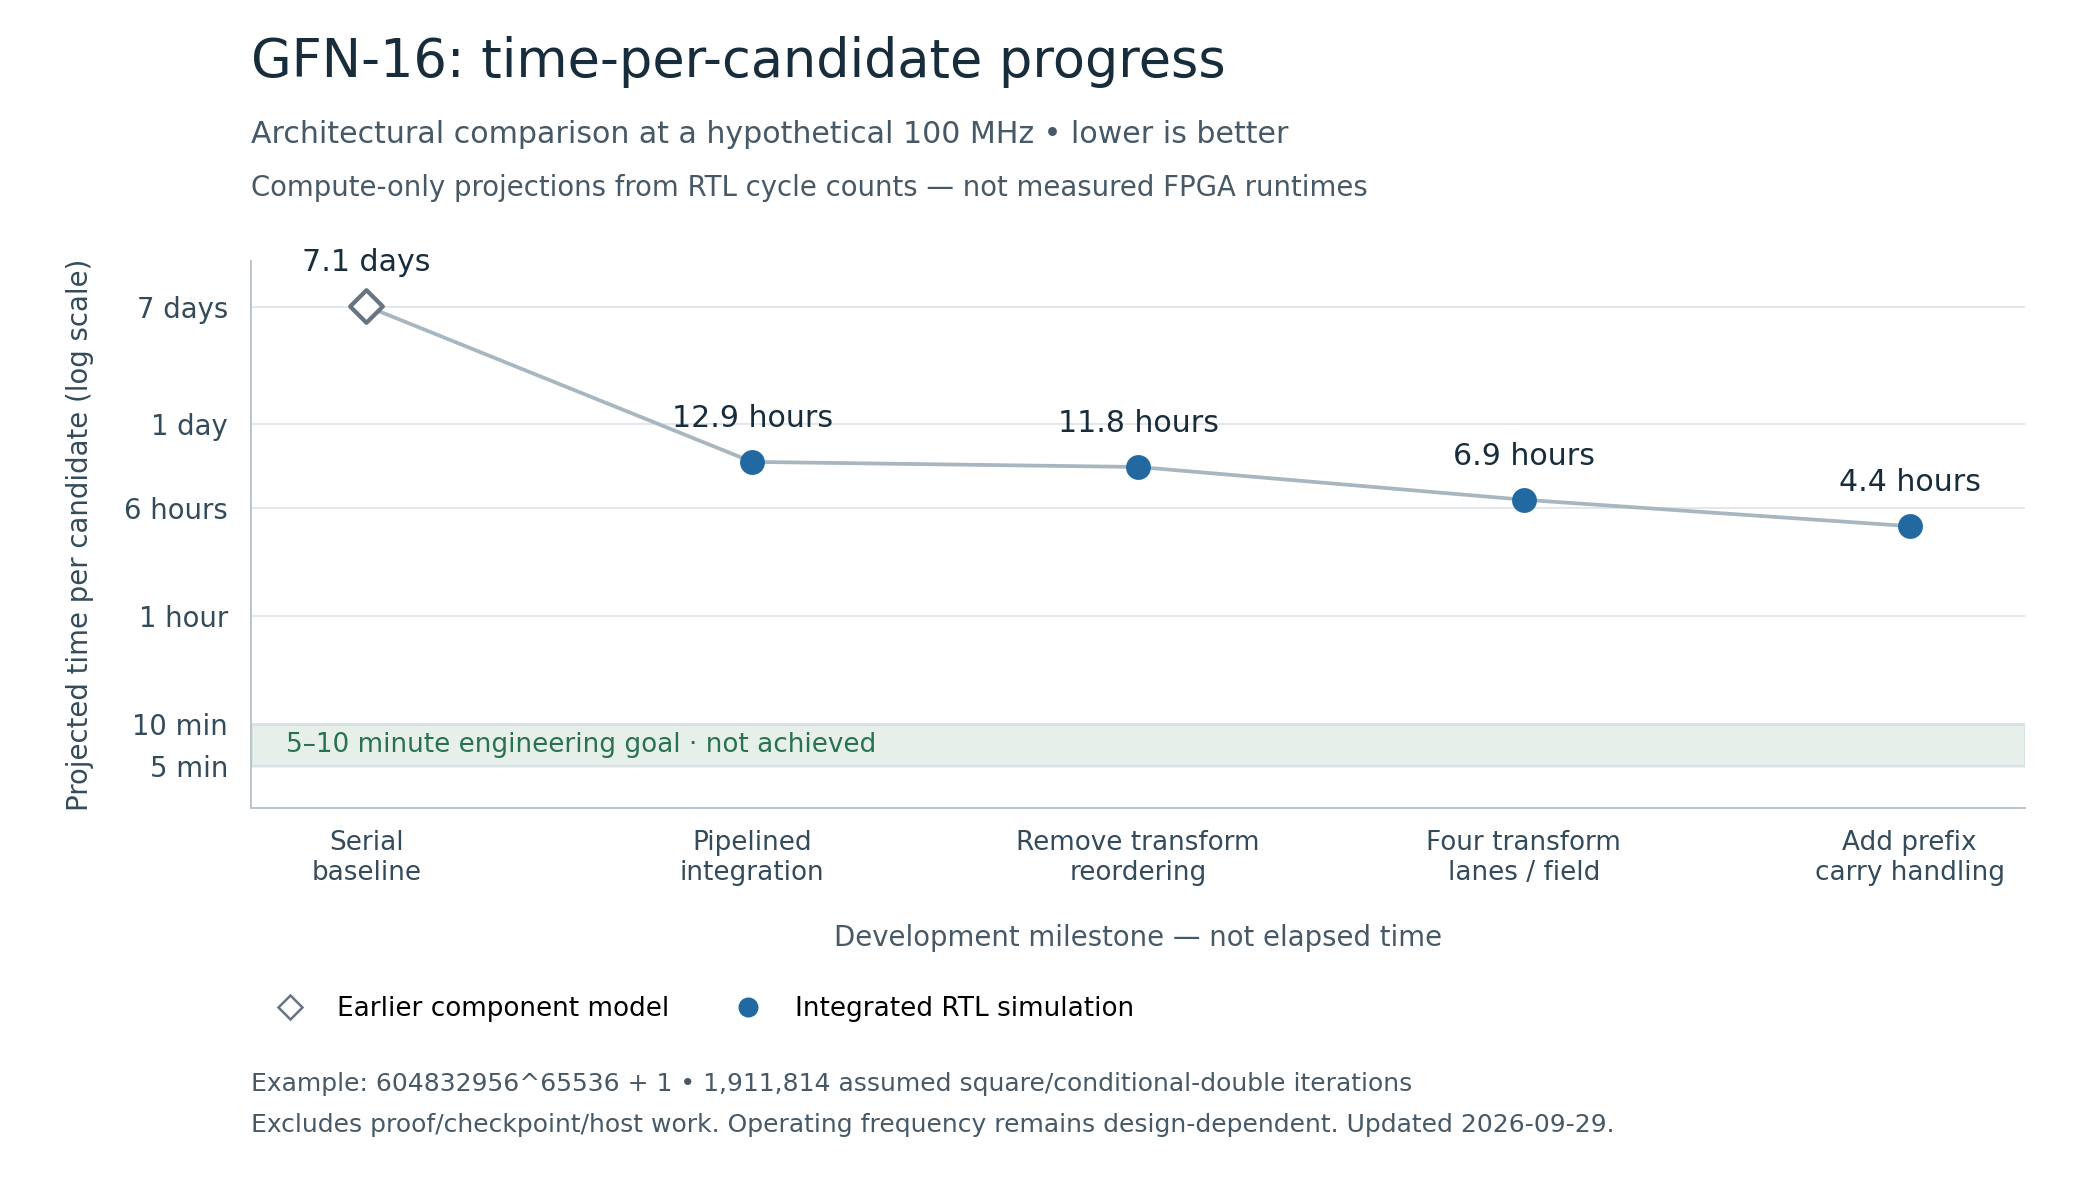
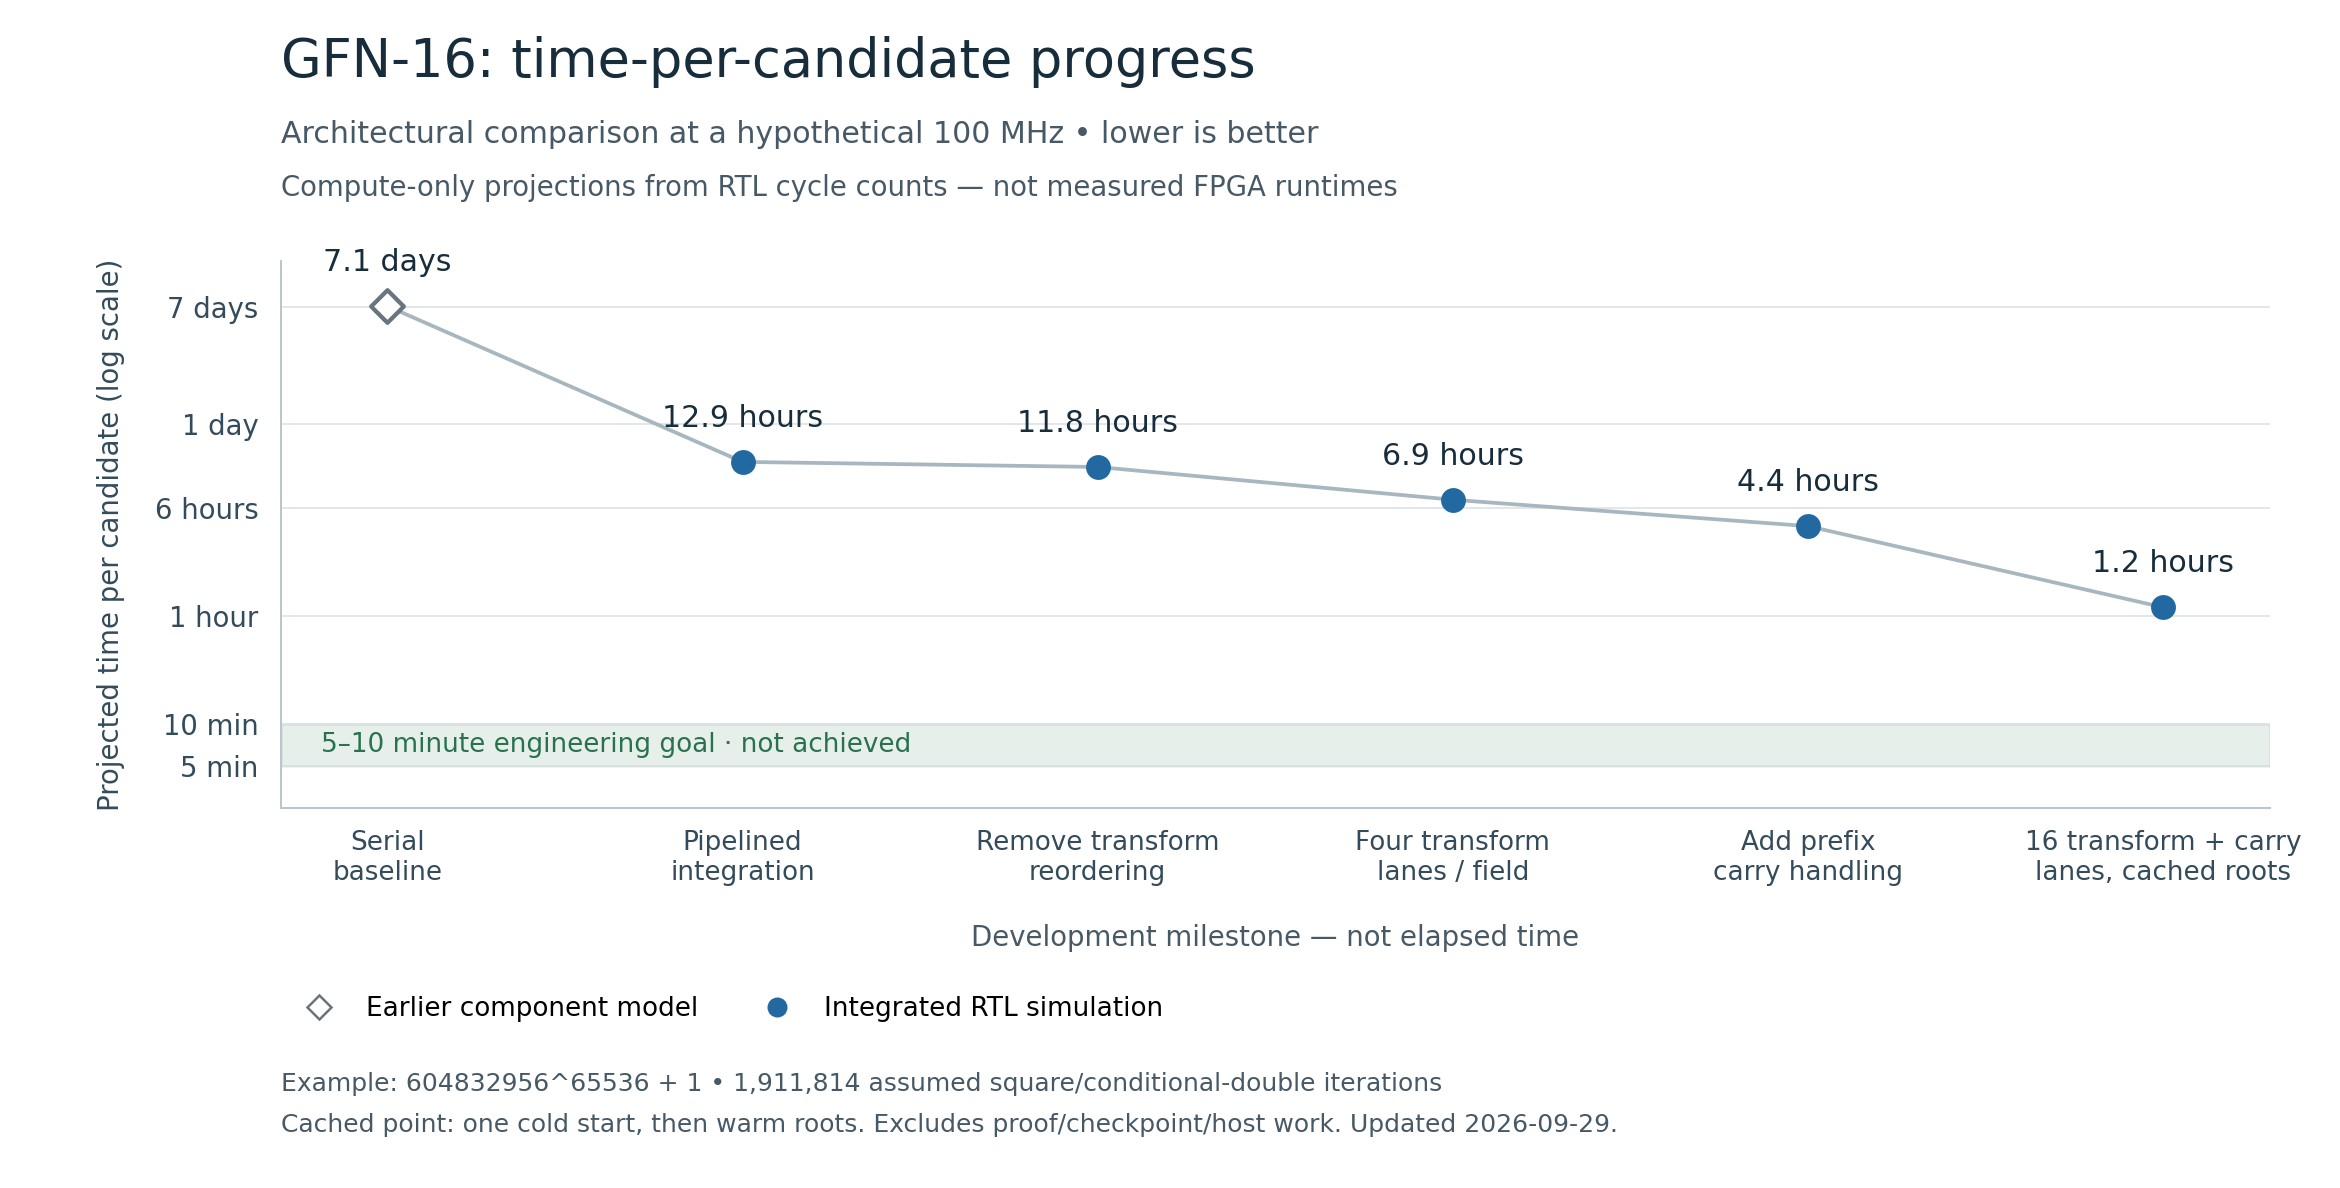
Track verified cached sixteen-lane milestone

diff --git a/plot_progress.py b/plot_progress.py
@@ -19,12 +19,18 @@ def load_progress(path: Path) -> dict:
             raise ValueError("duplicate milestone or invalid cycle count")
         if row["evidence_class"] not in {"component_model","integrated_rtl_simulation"}:
             raise ValueError("unknown evidence class")
+        if "cold_start_cycles" in row and (row["cold_start_cycles"] < row["cycles_per_square"]
+                or row.get("cold_samples", 0) < 1 or row.get("warm_samples", 0) < 1
+                or row["cold_samples"] + row["warm_samples"] != row.get("full_size_recurrent_squares")):
+            raise ValueError("cached milestone needs consistent cold/warm evidence")
         seen.add(row["id"])
     return data
 
 
 def seconds(data, row):
-    return row["cycles_per_square"]*data["candidate"]["exponent_bits"]/(data["reference_clock_mhz"]*1e6)
+    bits = data["candidate"]["exponent_bits"]
+    cycles = row.get("cold_start_cycles", row["cycles_per_square"]) + (bits - 1) * row["cycles_per_square"]
+    return cycles/(data["reference_clock_mhz"]*1e6)
 
 
 def duration(s):
@@ -44,7 +50,7 @@ def render(data, destination):
     rows=data["milestones"]; xs=list(range(len(rows)))
     ys=[seconds(data,row)/3600 for row in rows]
     blue="#2369a1"; gray="#687480"; green="#28734e"
-    fig,ax=plt.subplots(figsize=(11.6,6.6),facecolor="white")
+    fig,ax=plt.subplots(figsize=(13,6.6),facecolor="white")
     fig.subplots_adjust(left=.12,right=.97,bottom=.32,top=.78)
     fig.text(.12,.935,"GFN-16: time-per-candidate progress",fontsize=21,color="#182d3c",weight="medium")
     fig.text(.12,.88,f"Architectural comparison at a hypothetical {data['reference_clock_mhz']:g} MHz • lower is better",color="#475966",fontsize=12)
@@ -81,7 +87,7 @@ def render(data, destination):
             Line2D([],[],linestyle="none",marker="o",color=blue,markersize=7,label="Integrated RTL simulation")]
     fig.legend(handles=legend,loc="lower left",bbox_to_anchor=(.115,.12),ncol=2,frameon=False,fontsize=10.5)
     fig.text(.12,.082,"Example: 604832956^65536 + 1 • 1,911,814 assumed square/conditional-double iterations",fontsize=10,color="#475966")
-    fig.text(.12,.047,"Excludes proof/checkpoint/host work. Operating frequency remains design-dependent. Updated "+data["updated"]+".",fontsize=10,color="#475966")
+    fig.text(.12,.047,"Cached point: one cold start, then warm roots. Excludes proof/checkpoint/host work. Updated "+data["updated"]+".",fontsize=10,color="#475966")
     destination.mkdir(parents=True,exist_ok=True)
     for ext in ("svg","png"):
         metadata={"Date":None,"Creator":"GFN16 progress plotting script"} if ext=="svg" else {"Software":"GFN16 progress plotting script"}

diff --git a/tests/test_progress.py b/tests/test_progress.py
@@ -22,3 +22,9 @@ class ProgressTests(unittest.TestCase):
         self.assertGreater(seconds(data,data["milestones"][-1]),600)
         for forbidden in ("/Users/","/home/","ssh://","BEGIN PRIVATE KEY","github_pat_"):
             self.assertNotIn(forbidden,path.read_text())
+
+    def test_cached_point_includes_one_cold_start(self):
+        data=load_progress(Path(__file__).parents[1]/"progress.json")
+        row=next(r for r in data["milestones"] if r["id"]=="sixteen-cached-prefix")
+        self.assertAlmostEqual(seconds(data,row),(479674+1911813*217522)/1e8)
+        self.assertEqual(row["cold_samples"]+row["warm_samples"],5)

diff --git a/README.md b/README.md
@@ -15,6 +15,17 @@ Every point uses a **hypothetical common 100 MHz clock** to compare architecture
 projected seconds = cycles per square × 1,911,814 / 100,000,000
 ```
 
+For cached-root milestones, the estimate instead uses one cold start and warm
+iterations thereafter:
+
+```text
+projected seconds = (cold-start cycles + warm cycles × 1,911,813) / 100,000,000
+```
+
+The latest simulated milestone uses 217,522 warm cycles (479,674 cold), giving
+about **1.2 hours at the hypothetical 100 MHz**. It has not been physically
+timing-qualified. Cache resets/errors would add root-loading work.
+
 The example candidate is `604832956^65536 + 1`. This approximates one modular
 square/conditional-double per exponent bit. The clock is **not a verified operating
 frequency**, and the plotted times are **not FPGA measurements or full PRP benchmarks**.
